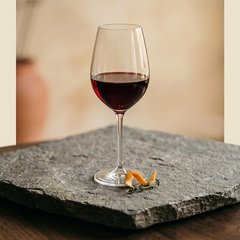
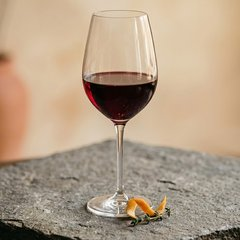
Revert hero scrim to the original lighter gradient (the strengthened version was covering too much of the plate) while keeping the text max-width fix that actually solved the legibility issue. Shift the food photo rightward (70% center) for better text/subject separation. Re-crop Wine and Bar circle

diff --git a/css/style.css b/css/style.css
@@ -189,7 +189,7 @@ button, input {
 }
 
 .home-hero-card {
-  background: var(--terracotta) url('../images/food-hero.jpg') center/cover no-repeat;
+  background: var(--terracotta) url('../images/food-hero.jpg') 70% center/cover no-repeat;
   color: var(--cream-on-charcoal);
   margin: 0 20px 32px; padding: 24px; min-height: 190px;
   position: relative; overflow: hidden;
@@ -197,7 +197,7 @@ button, input {
 }
 .home-hero-scrim {
   position: absolute; inset: 0;
-  background: linear-gradient(90deg, rgba(35,46,31,0.88) 0%, rgba(35,46,31,0.88) 60%, rgba(35,46,31,0.4) 78%, rgba(35,46,31,0.05) 92%);
+  background: linear-gradient(90deg, rgba(35,46,31,0.78) 0%, rgba(35,46,31,0.62) 32%, rgba(35,46,31,0.1) 62%, rgba(35,46,31,0) 78%);
 }
 .home-hero-eyebrow {
   font-family: var(--font-display); font-size: 10.5px; font-weight: 700; color: var(--cream-on-charcoal-soft);
